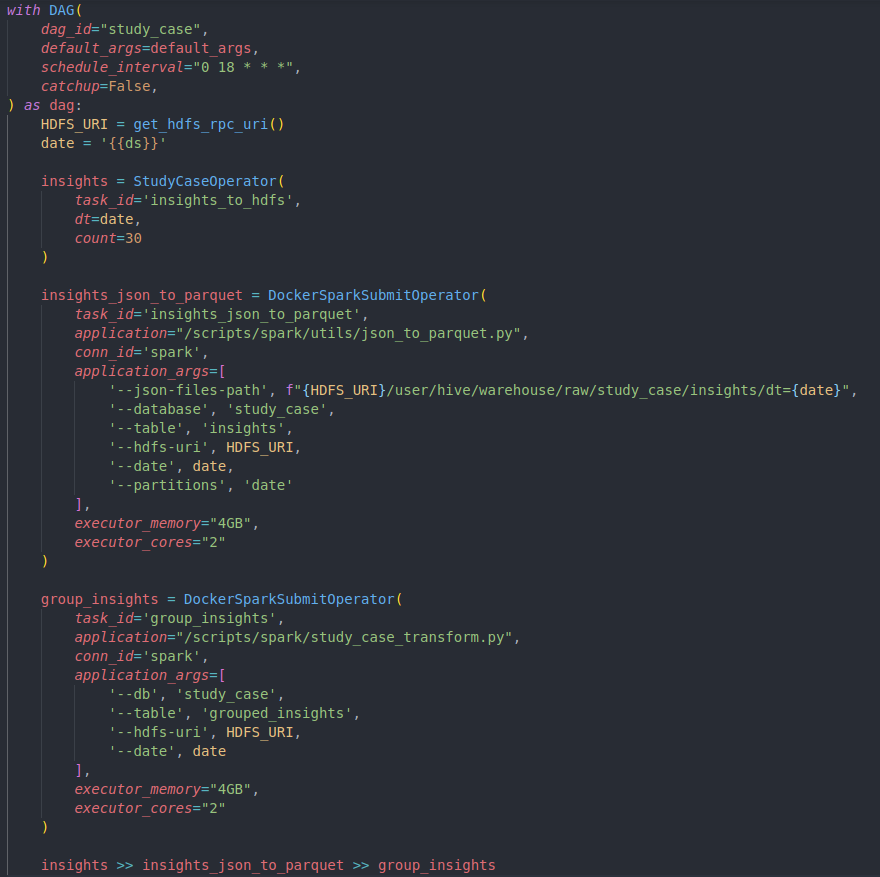
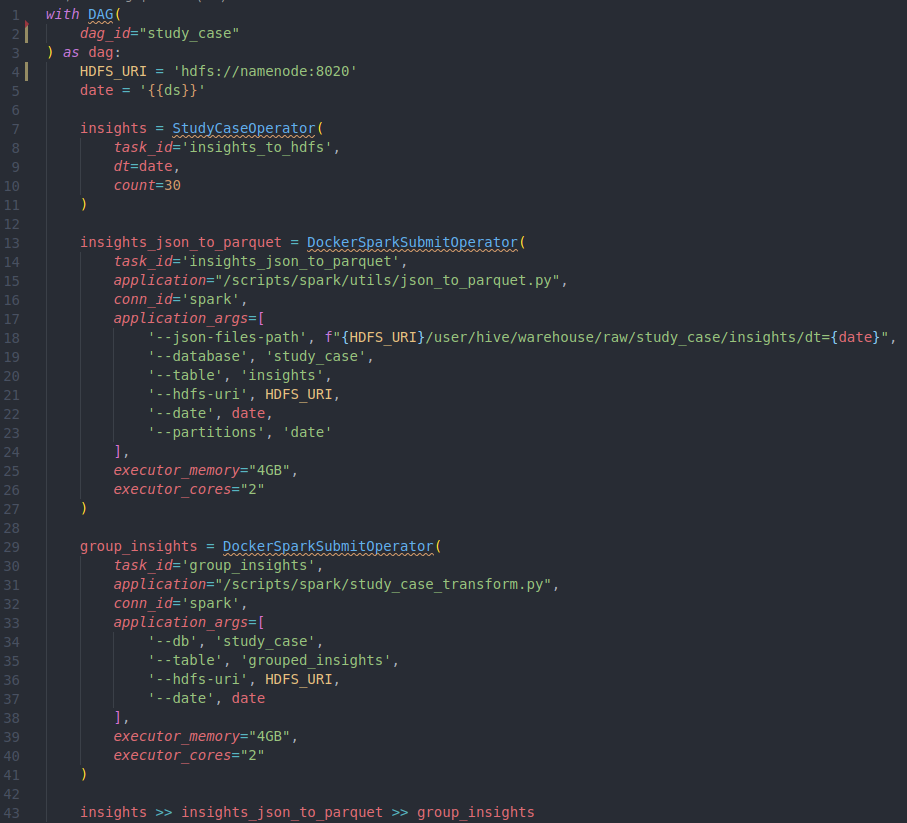
up to date section 3.7.1

diff --git a/doc/readme.md b/doc/readme.md
@@ -320,25 +320,47 @@ Com o objetivo de expor dados para extração, criou-se uma API ao qual gera um 
 
 ![API geradora de dados aleatórios](./images/api_random_data.png)
 
-A Figura X apresenta o código de implementação da API geradora de dados aleatórios, ao qual na chamada da API é passado o parâmetro nomeado como `date` e um limitador da quantidade de registros por chamada, nomeado como `count`. O código gera N registros, para qual cada registro contém os campos user_name, page, event_name e event_time. O campo event_name indica o nome do evento, limitado a um conjunto definido pelos valores click, page_view e submit que serviram como campo de agregação. O campo event_time recebe a data passada como parâmetro `date`, convertido para o formato de data `2021-12-30`.
+A Figura X apresenta o código de implementação da API geradora de dados aleatórios, ao qual na chamada da API é passado o parâmetro nomeado como `date` e um limitador da quantidade de registros por chamada, nomeado como `count`.
 
-A Figura X apresenta o script da DAG para extração, transformação e persistência dos dados fornecidos pela API.
+Da linha 28 a 35 implementou-se o método responsável por gerar um objeto JavaScript contendo os campos username, page e event_name com valores aleatórios. O campo event_time é a conversão do parâmetro date para o formato de Timestamp.
 
-![DAG de ETL da API geradora de dados aleatórios](./images/study_case_dag.png)
+Da linha 19 a 26 foi implementado o método responsável por gerar N objetos JavaScript utilizando o método anteriormente citado, onde N corresponde ao parâmetro count. Por fim, o método envia uma resposta de volta ao cliente invocador da API HTTP.
 
-Na DAG criou-se 3 tarefas para definição do fluxo ETL. Na primeira tarefa nomeada como `insights_to_hdfs`, é utilizado um operador personalizado responsável por fazer uma chamada a API geradora de dados aleatórios e persistir a resposta da chamada no Data Lake. É importante ressaltar que os dados da resposta são persistidos em uma camada de dados brutos, sem nenhuma transformação. A Figura X apresenta a implementação do operador personalizado, nomeado como StudyCaseOperator.
+Para realizar a extração dos dados da API anteriormente citada, criou-se um script de DAG contendo 3 tarefas para definição do fluxo ETL. A Figura X apresenta a implementação do script.
 
-![Operador de extração de dados](./images/study_case_operator.png)
+![Script da DAG ETL](./images/study_case_dag.png)
 
-A segunda tarefa nomeada como insights_json_to_parquet, é responsável por transformar o dado bruto extraído da API no formato JSON para o formato colunar Parquet, como também a criação de uma tabela no catálogo de dados do Hive Metastore. Nessa tarefa é utilizada outro operador personalizado, responsável por submeter a execução de scripts para o cluster Spark. Na Figura X é apresentado o código de transformação utilizando a biblioteca PySpark.
+Da linha 7 a 11 é definida a primeira tarefa nomeada como `insights_to_hdfs`. Na primera tarefa é utilizado um operador personalizado - StudyCaseOperator, responsável por fazer uma chamada a API geradora de dados aleatórios e persistir a resposta da chamada no Data Lake. É importante ressaltar que os dados da resposta são persistidos em uma camada de dados brutos, sem nenhuma transformação.
 
-![Script de conversão de JSON para Parquet](./images/study_case_json_to_parquet.png)
+A segunda tarefa, implementada da linha 13 a 27 nomeada como insights_json_to_parquet, é responsável por transformar o dado bruto extraído da API no formato JSON para o formato colunar Parquet, como também a criação de uma tabela no catálogo de dados do Hive Metastore. Nessa tarefa é utilizada outro operador personalizado, responsável por submeter a execução de scripts para o cluster Spark.
 
-A terceira e última tarefa, nomeada como group_insights é responsável por realizar transformações no dado já catalogado, aplicando transformações com intuito de extrair informações analíticas. Essa tarefa também utiliza o mesmo operador da tarefa anterior, que faz submissão de scripts para o cluster Spark. Na Figura X é apresentado o scrpit de agregação do dado.
+A terceira e última tarefa, nomeada como group_insights definida da linha 29 a 41 é responsável por realizar transformações no dado já catalogado, aplicando transformações com intuito de extrair informações analíticas. Essa tarefa também utiliza o mesmo operador da tarefa anterior, que faz submissão de scripts para o cluster Spark. Na Figura X é apresentado a implementação do script de transformação.
 
 ![Script de agregação dos dados](./images/study_case_transform.png)
 
-No script é aplicado uma transformação simples no dado, com intuito de simular a obtenção de alguma informação analítica do dado. O script aplica uma agregação dos dados de uma determinada data, especificada pelo cláusula `WHERE date = '%s'`. Agrupa pelo campo event_name e faz a contagem de cada tipo de evento. Por fim, o resultado da transformação é persistido no Data Lake, porém em outra camada - de dados analíticos.
+Na linha 4 a 8 é implementado o código para receber como argumentos a data ao qual o script irá extrair os dados.
+
+Na linha 10 a 26 do script é iniciado uma instância da aplicação Spark como também a instrução SQL que aplica as transformações nos dados. Com intuito de simular a obtenção de alguma informação analítica do dado. O script aplica uma agregação dos dados de uma determinada data, especificada pelo cláusula `WHERE date = '%s'`. Agrupa pelo campo event_name e faz a contagem de cada tipo de evento.
+
+Por fim, na linha 28 a 36 a instrução é de fato executada, e o resultado da transformação é persistido no Data Lake, porém em outra camada - de dados analíticos.
+
+A Figura X apresenta a implementação da classe operador personalizado anteriormente citado, nomeado como StudyCaseOperator.
+
+![Operador de extração de dados](./images/study_case_operator.png)
+
+Na linha 4 a 16 é definido o construtor da classe operadora, ao qual são definidas variáveis iniciais contendo a data de execução do script, o contador de objetos e o endereço da API geradora de dados aleatórios.
+
+Na linha 18 a 22 é definido o conjunto de códigos que realiza a chamada HTTP à API geradora de dados, passando como parâmetro a data e o contador de objetos definidos no construtor da classe. É utilizado o pacote requests nativo do Python.
+
+Para a definição do código executor da classe operadora, na linha 24 a 31 é implementado o método execute que realiza a chamada HTTP a API e persiste o resultado da chamada no formato JSON na camada de dados brutos do HDFS.
+
+Na Figura X é apresentado o script de transformação de dados no formato JSON para o formato Parquet, citado anteriormente na definição da segunda tarefa ETL.
+
+![Script de conversão de JSON para Parquet](./images/json_to_parquet_operator.png)
+
+Na linha 1 a 17 são definidas as variáveis contendo o caminho do arquivo JSON, o nome do banco de dados e tabela onde o dado Parquet será persistido, a data de execução do script e a instância da aplicação Spark.
+
+Na linha 19 a 22 é iniciado a leitura do arquivo JSON, como também a adição de uma nova coluna contendo a data de execução do script, anteriormente definida. A partir da linha 23 a 30 é iniciado a persistência dos novos arquivos no formato Parquet, como também a especificação do nome do banco de dados, tabela e o caminho de onde os arquivos serão persistidos. Por fim, na linha 32 a aplicação Spark é finalizada.
 
 ### 3-7-2 ETL em tempo real
 
